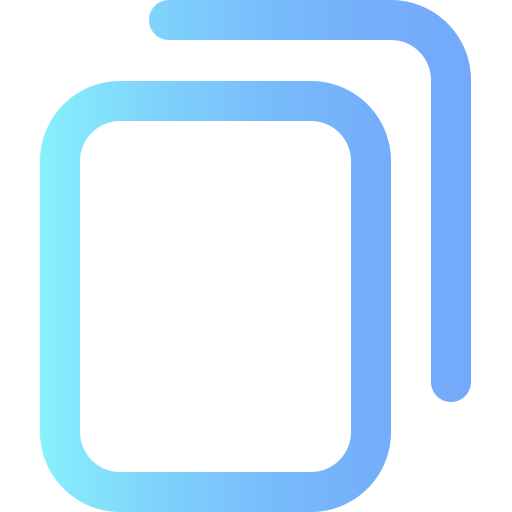
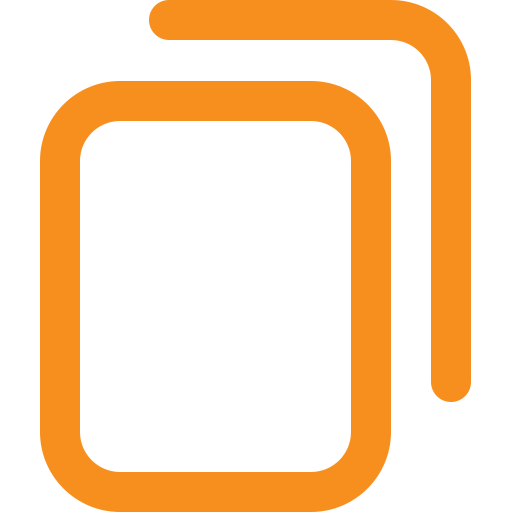
improve view

Changed region(s): [[0.0625, 0.1562, 0.7812, 1.0], [0.2812, 0.0, 0.9375, 0.7812]]

diff --git a/app/src/public/css/index.css b/app/src/public/css/index.css
@@ -9,41 +9,6 @@ html, body {
     flex-direction: column;
 }
 
-.header {
-    width: 100%;
-    background-color: #222;
-    padding: 20px;
-    display: flex;
-    justify-content: space-between;
-    align-items: center;
-    box-sizing: border-box;
-    
-    -webkit-user-select:none;
-    -moz-user-select:none;
-    -ms-user-select:none;
-    user-select:none
-}
-
-.header h1 {
-    margin: 0 20px;
-    font-size: 24px;
-    color: white;
-}
-
-.nav {
-    display: flex;
-    gap: 20px;
-    flex-wrap: wrap;
-}
-
-.nav a {
-    color: white;
-    text-decoration: none;
-    font-size: 18px;
-    white-space: nowrap;
-    margin: 0 5px;
-}
-
 .main-content {
     display: flex;
     flex-grow: 1;
@@ -57,7 +22,7 @@ html, body {
 
 .sidebar {
     width: 300px;
-    background-color: #222;
+    background-color: #000;
     padding: 20px;
     display: flex;
     flex-direction: column;
@@ -264,8 +229,8 @@ html, body {
     width: 100%;
     height: 100%;
     background: url('/image/background/301.jpg') center/cover no-repeat;
-    filter: brightness(10%); /* 이미지 어둡게 설정 */
-    z-index: -1; /* 배경이 콘텐츠 뒤에 위치하도록 설정 */
+    filter: brightness(10%);
+    z-index: -1;
 }
 
 .content-title {
@@ -291,24 +256,21 @@ html, body {
     border-radius: 10px;
     cursor: pointer;
     transition: all 0.3s ease;
-    
-    border: none;
-    box-shadow: 0px 0px 3px 0px rgba(255, 255, 255, 1);
+    border: 1px solid white;
 }
 
 .buttons button:hover {
     background-color: white;
     color: black;
-    box-shadow: 0px 0px 15px 0px rgba(0, 0, 0, 0.5) inset;
 }
 
 .special-thanks {
     margin-top: 50px;
     font-size: 18px;
+    height: 25px;
 }
 
 .special-thanks a {
-    /* background: white; */
     background-color: #fff;
     color: transparent;
     background-clip: text;
@@ -321,7 +283,6 @@ html, body {
 }
 
 .special-thanks a:hover {
-    /* background: linear-gradient(to right top, #861657, #ffa69e); */
-    background-color: #85eafa;
+    background-color: rgb(247, 143, 30);
     background-clip: text;
 }

diff --git a/app/src/models/NavConstants.js b/app/src/models/NavConstants.js
@@ -1,0 +1,52 @@
+const fs = require('fs');
+const path = require('path');
+
+const navConstantFilePath = path.join(__dirname, '../../data/.secret/navConstant.json');
+
+class NavConstants {
+    // Static variable to store cached data
+    static cachedData = null;
+
+    /**
+     * get: Returns an object using the list of strings as keys.
+     * If data is already loaded, it returns the cached data.
+     * If no data is cached, it reads from the navConstant.json file.
+     * @param {Array} keys - List of strings representing the keys to retrieve.
+     * @returns {Object} - Object with key-value pairs from the cached data.
+     */
+    static get(keys = []) {
+        // Check if data is cached
+        if (!NavConstants.cachedData) {
+            try {
+                const data = fs.readFileSync(navConstantFilePath, 'utf8');
+                NavConstants.cachedData = JSON.parse(data);
+            } catch (err) {
+                console.error('Error reading navConstant.json:', err);
+                return {};
+            }
+        }
+
+        // Return only the values for the requested keys
+        const result = {};
+        keys.forEach(key => {
+            if (NavConstants.cachedData[key] !== undefined) { result[key] = NavConstants.cachedData[key]; } });
+        return result;
+    }
+
+    /**
+     * refresh: Forces reading data from the navConstant.json file
+     * and refreshes the cached data, regardless of whether the data
+     * is already cached or not.
+     */
+    static refresh() {
+        try {
+            const data = fs.readFileSync(navConstantFilePath, 'utf8');
+            NavConstants.cachedData = JSON.parse(data);
+        } catch (err) {
+            console.error('Error reading navConstant.json:', err);
+            NavConstants.cachedData = null; // Clear the cache if there's an error
+        }
+    }
+}
+
+module.exports = NavConstants;

diff --git a/app/src/routes/home.ctrl.js b/app/src/routes/home.ctrl.js
@@ -5,6 +5,7 @@ const fs = require("fs");
 const multer = require("multer");
 
 const ZipFileSys = require("../models/ZipFileSys");
+const NavConstants = require("../models/NavConstants");
 
 const util = {
     getUniqueFilename : (filename, dir) => {
@@ -49,11 +50,16 @@ const upload = multer({ storage: storage }).single("file");
 const output = {
     main: (req, res) => {
         res.render("index", {
-            "navs": ["/read/cse/book", "/read/cse/exam/수학2"],
+            "navs": [
+                { name: '교재', href: "/read/cse/book"},
+                { name: '시험', href: "/read/cse/exam"},
+            ],
             "buttons": [
                 { name: '교재', href: "/read/cse/book"},
+                { name: '시험', href: "/read/cse/exam"},
+                { name: '수학1', href: ''},
                 { name: '수학2', href: "/read/cse/exam/수학2"},
-                { name: '통계', href: "/read/cse/exam/통계학.정상아"},
+                { name: '컴구', href: ''}
             ],
             "links" : [
                 { src: '/image/lnk/snucse.png', name: '컴공 홈페이지', href: 'https://cse.snu.ac.kr/'},
@@ -107,7 +113,12 @@ const database = {
                 res.render("show", {
                     files: fileList,
                     path: relativePath,
-                    backto: backto
+                    backto: backto,
+                    is_admin: 1,
+                    "navs": [
+                        { name: '교재', href: "/read/cse/book"},
+                        { name: '시험', href: "/read/cse/exam"},
+                    ],
                 });
             });
         });

diff --git a/app/src/public/css/components/nav.css b/app/src/public/css/components/nav.css
@@ -1,0 +1,40 @@
+#navbar {
+    width: 100%;
+    background-color: #222;
+    padding: 20px;
+    display: flex;
+    justify-content: space-between;
+    align-items: center;
+    box-sizing: border-box;
+    
+    -webkit-user-select:none;
+    -moz-user-select:none;
+    -ms-user-select:none;
+    user-select:none
+}
+
+#navbar h1 {
+    margin: 0 20px;
+    font-size: 24px;
+    color: white;
+}
+
+.nav {
+    display: flex;
+    gap: 20px;
+    flex-wrap: wrap;
+}
+
+.nav a {
+    color: white;
+    text-decoration: none;
+    font-size: 18px;
+    white-space: nowrap;
+    margin: 0 5px;
+    
+    transition: all 0.3s ease;
+}
+
+.nav a:hover {
+    color: rgb(247, 143, 30);
+}

diff --git a/app/src/public/js/show.js b/app/src/public/js/show.js
@@ -1,0 +1,18 @@
+
+function openUploadPopup(path) {
+    const popup = window.open(`/upload/${path}`, "Upload File", "width=400,height=250");
+    if (window.focus) popup.focus();
+}
+
+function openCreatePopup(path) {
+    const popup = window.open(`/create/${path}`, "Create Folder", "width=400,height=250");
+    if (window.focus) popup.focus();
+}
+
+function downloadZip(path) {
+    const form = document.createElement('form');
+    form.method = 'POST';
+    form.action = `/zip/${path}`;
+    document.body.appendChild(form);
+    form.submit();
+}

diff --git a/app/src/public/css/show.css b/app/src/public/css/show.css
@@ -1,4 +1,6 @@
 body {
+    margin: 0;
+    padding: 0;
     font-family: Arial, sans-serif;
     background-color: #000;
     color: #fff;

diff --git a/app/src/public/image/image-util.py b/app/src/public/image/image-util.py
@@ -12,8 +12,9 @@ def invert_grayscale(image_path, output_path):
             if a != 0:
                 grayscale = int(0.299 * r + 0.587 * g + 0.114 * b)
                 inverted = 255 - grayscale
-                pixels[x, y] = (inverted, inverted, inverted, a)
+                # pixels[x, y] = (inverted, inverted, inverted, a)
+                pixels[x, y] = (247, 143, 30, a)
 
     img.save(output_path)
 
-invert_grayscale('app\src\public\image\github.png', 'app\src\public\image\github-refile.png')
+invert_grayscale('app\src\public\image\copy.png', 'app\src\public\image\copy-hover.png')
